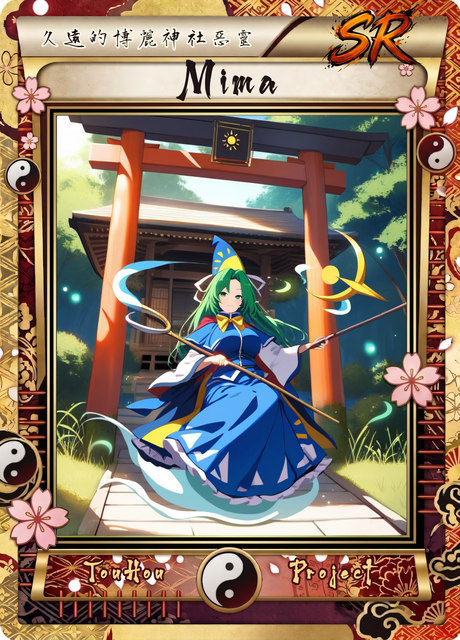
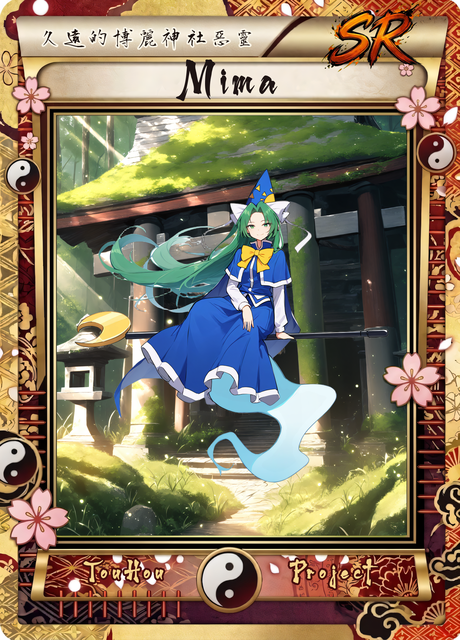
feat: 0.30.016 魅魔 SR / SSR / UR 重生卡面，twilight 彈幕

diff --git a/tools/card_art/layered/hd_card.py b/tools/card_art/layered/hd_card.py
@@ -755,7 +755,208 @@ LAYERS = {
         "density": 0.72,
         "glow": 0.55,
         "char_scale": 0.8,
-        "light": {"dark": 0.35, "eyes": [], "eye_color": (90, 255, 150), "eye": 1.3, "eye_size": 3},   # 綠瞳發光；eyes 座標等人物定案後量
+        "light": {"dark": 0.35, "glow_red": 0,   # glow_red 0：紅色領結會被當成翅膀紋路發光
+                  "eyes": [(515, 528), (478, 566)], "eye_color": (90, 255, 150), "eye": 1.3, "eye_size": 3,   # 綠瞳發光 (B2C2 的 10_char 量的)
+                  # 使用者 (2026-11-12)：杖頭月牙、旁邊的紫色魔焰、眼睛都要發亮
+                  "emissive": [
+                      {"hue": (0.70, 0.86), "sat": (0.35, 1.0), "val": (0.25,), "color": (190, 120, 255), "strength": 0.8, "body": 0.45, "keep_color": True},   # 紫色魔焰
+                      {"hue": (0.86, 1.0), "sat": (0.35, 1.0), "val": (0.45,), "color": (255, 130, 180), "strength": 1.0, "body": 0.6, "keep_color": True,    # 杖頭粉紅月牙
+                       "exclude": [[(450, 530), (610, 530), (610, 670), (450, 670)], [(930, 610), (1210, 610), (1210, 810), (930, 810)]]},   # 扣掉領結、右邊紅緞帶
+                  ]},
+    },
+    ("genji", "N"): {
+        # N「飛天神龜」(沿用舊 SCENES)：老龜悠哉地飛過湖面 (蘆葦、倒影、藍天白雲)；眼睛半閉、表情平靜
+        # 非人角色：人物層只畫烏龜 (no humans, animal focus)，湖面 / 水花全部放背景，不然去背會一起被切掉或留下奇怪的水塊
+        # hd_card 只吃 EXTRA_NEGATIVE["genji"]，舊的 ("genji", "N") 負面提示 (不要人) 要寫進 char_negative
+        "bg": ("no humans, scenery, calm lake, lake surface, reeds, water reflection, lily pads, distant green hills, "
+               "blue sky, white clouds, daylight, soft lighting, peaceful, highly detailed"),
+        "bg_negative": "1girl, person, human, character, face, animal, turtle, text, watermark, lowres, worst quality, low quality, blurry, frame, border, night, dark",
+        "base": ("no humans, animal focus, genjii (touhou), touhou, minogame, tortoise, old tortoise, land tortoise, green shell, olive brown skin, "
+                 "four legs, clawed feet, long white beard, bushy white eyebrows, half-closed eyes, sleepy eyes, "
+                 "long fluffy white tail, flowing white hair-like tail, wise, flying tortoise"),
+        "char": ("flying, floating in the air, legs relaxed, calm expression, eyes half closed, peaceful, beard flowing in the wind, "
+                 "side view, from side, full body"),
+        "char_negative": ("1girl, human, humanization, anthropomorphic, girl, rider, person riding, "
+                          "water, lake, splash, reeds, wings, feathers, sea turtle, flippers"),
+        "char_scale": 0.7,   # 烏龜是橫長的，畫窗直長；日常卡人物偏小，先抓 0.7，等去背圖出來再依實際寬度調
+    },
+    ("genji", "R"): {
+        # R「靈夢的御用坐騎」(沿用舊 SCENES)：載著 (舊作 PC-98 造型的) 靈夢在空中飛行，下方遠處是博麗神社、櫻花飛舞
+        # 雙人卡 (DUO)：靈夢 + 烏龜都放人物層，神社 / 櫻花 / 天空放背景；手上的符札會留著，飄的花瓣放背景
+        # 注意：共用的 CHAR_COMPOSITION 有 "solo"，可能只畫出其中一個 (或烏龜被縮成小配件)，挑圖時要檢查兩個都在
+        # 2026-11-12 使用者：第一輪背景 (B2 仰拍鳥居) 跟「在天上飛」的人物不搭 ➔ 改成高空俯瞰，神社只在遠遠的下方
+        "bg": ("no humans, scenery, aerial view, high altitude, open sky, white clouds around, wind, "
+               "looking down at gensokyo far below, tiny hakurei shrine and red torii far below, forest, mountains, lake, "
+               "pink cherry blossom trees far below, few falling petals, blue sky, daylight, cheerful, bright, highly detailed"),
+        "bg_negative": ("1girl, person, human, character, face, animal, turtle, text, watermark, lowres, worst quality, low quality, blurry, frame, border, night, dark, "
+                        "from below, low angle, close-up building, large building, shrine in foreground, torii in foreground"),
+        "base": ("1girl, hakurei reimu, touhou, touhou (pc-98), brown hair, black hair, brown eyes, hair tubes, red bow, "
+                 "red and white miko outfit, detached sleeves, red skirt, "
+                 "riding on a giant old tortoise, genjii (touhou), minogame, tortoise, green shell, olive brown skin, "
+                 "long white beard, bushy white eyebrows, long fluffy white tail"),
+        "char": ("sitting on the tortoise's shell, riding, flying through the sky, holding ofuda, cheerful smile, looking at viewer, "
+                 "hair flowing, sleeves fluttering, wind, tortoise with half-closed eyes, calm, from side, full body"),
+        "char_negative": ("humanization, anthropomorphic, turtle girl, multiple girls, white hair, grey hair, silver hair, "
+                          "animal ears, tail on girl, beard on girl, broom, wings, sea turtle, flippers, cherry blossoms, petals"),
+        "char_scale": 0.8,   # 靈夢 + 烏龜比單隻大，先 0.8；腳要留在龜殼上，太大會被畫窗切掉
+    },
+    ("genji", "SR"): {
+        # SR「萬年修行的靈龜」(沿用舊 SCENES)：仙山雲海上的神龜，龜殼上古老的符文發著金光、靈氣環繞
+        # 去背會把身邊的金色氣焰一起去掉 ➔ 光芒、光柱、金色光點都放背景，人物層只留龜殼上的發光符文 (是身體的一部分，去背會保留)
+        # N～SSR 沒有彈幕 / 魔法陣，舊 SCENES 也沒有，維持
+        "bg": ("no humans, scenery, sea of clouds, chinese mountains, towering karst peaks, waterfall, pine trees on cliffs, "
+               "golden light rays, divine light, glowing golden particles, sparkles, mist, mystical, sacred, majestic, "
+               "daylight, highly detailed, intricate details"),
+        "bg_negative": "1girl, person, human, character, face, animal, turtle, text, watermark, lowres, worst quality, low quality, blurry, frame, border, night, dark, magic circle",
+        "base": ("no humans, animal focus, genjii (touhou), touhou, minogame, tortoise, ancient divine tortoise, old tortoise, land tortoise, green shell, olive brown skin, "
+                 "four legs, clawed feet, long white beard, bushy white eyebrows, half-closed eyes, "
+                 "long fluffy white tail, flowing white hair-like tail, wise, flying tortoise"),
+        # 2026-11-12 第一輪 C1～C4 都畫出整圈金光 / 雲 / 好幾隻烏龜 (去背會切掉) ➔ 拿掉發光、飄動、仰角，改成單隻烏龜安穩站著的側面全身
+        "char": ("solo, single tortoise, standing calmly, side view, three-quarter view, ancient patterns carved on shell, "
+                 "dignified, wise expression, gentle smile, simple background, white background, full body"),
+        "char_negative": ("1girl, human, humanization, anthropomorphic, girl, rider, multiple tortoises, "
+                          "aura, glow, glowing, golden light, energy, smoke, clouds, swirl, runes, symbols, light particles, "
+                          "wings, feathers, sea turtle, flippers, dragon, waterfall, magic circle, danmaku"),
+        "char_scale": 0.75,
+    },
+    ("rika", "N"): {
+        # N「戰車技師」(沿用舊 SCENES)：在草地上修理自製的小戰車 (野花、藍天白雲、白天柔光)；拿扳手跪在戰車旁、臉頰沾油污、開朗笑
+        # 外觀照萌娘百科 (封魔錄 1 面)：棕色長髮綁兩條麻花辮、棕瞳、白襯衫 + 紫色領結；舊 base 的護目鏡 / 吊帶工作褲不是原作，拿掉
+        # 戰車要跟人物一起留在去背圖裡，所以戰車寫在 char (人物層)，草地、天空寫在 bg
+        "bg": ("no humans, scenery, grassy field, meadow, wildflowers, blue sky, white clouds, distant hills, "
+               "daylight, soft lighting, peaceful, highly detailed"),
+        "bg_negative": "1girl, person, human, character, face, tank, vehicle, military, text, watermark, lowres, worst quality, low quality, blurry, frame, border, night, dark",
+        "base": ("1girl, rika (touhou), touhou, touhou (pc-98), brown hair, long hair, twin braids, brown eyes, "
+                 "white shirt, collared shirt, purple bowtie, bowtie"),
+        "char": ("kneeling next to a small cute tank, repairing tank, holding wrench, oil stain on cheek, cheerful smile, looking at viewer, "
+                 "small handmade tank, flower decorations on the tank, toolbox, gears, bolts, full body"),
+        "char_negative": "military uniform, soldier, gun, rifle, mecha, robot girl, goggles, overalls, short hair, helmet",
+        "char_scale": 0.55,   # 日常場景人物小一點融入背景 (紅美鈴 R 0.49 / SR 0.56 的經驗)；戰車也要放得下
+    },
+    ("rika", "R"): {
+        # R「邪惡工程師」(沿用舊 SCENES)：坐在長滿花的戰車「Flower～戰車」頂上指揮、得意的壞笑、風吹花瓣、草原藍天
+        # N~SSR 沒有彈幕：舊 SCENES 的 tank cannon firing / danmaku / glowing bullets 拿掉，只留砲口一點硝煙
+        # 萌娘百科：Flower～戰車有加強裝甲 + 藤蔓偽裝，所以戰車寫 vines / flowers；戰車在 char 層 (去背才留得住)
+        "bg": ("no humans, scenery, meadow, flower field, rolling hills, blue sky, white clouds, sunlight, wind, flower petals flying, "
+               "highly detailed"),
+        "bg_negative": "1girl, person, human, character, face, tank, vehicle, military, text, watermark, lowres, worst quality, low quality, blurry, frame, border, night, dark",
+        "base": ("1girl, rika (touhou), touhou, touhou (pc-98), brown hair, long hair, twin braids, brown eyes, "
+                 "white shirt, collared shirt, purple bowtie, bowtie"),
+        "char": ("sitting on top of a tank, riding tank, flower tank, tank covered in flowers and vines, armored tank, cannon, smoke from cannon, "
+                 "pointing forward, mischievous grin, smug, looking at viewer, hair blowing in wind, petals, dynamic angle, full body"),
+        "char_negative": ("military uniform, soldier, gun, rifle, mecha, robot girl, goggles, overalls, short hair, helmet, "
+                          "danmaku, bullets, explosion, fire, magic circle"),
+        "char_scale": 0.65,   # 戰車比人大，人物 + 戰車整組要放得進畫窗
+    },
+    ("rika", "SR"): {
+        # SR「花樣戰車大師」(沿用舊 SCENES)：邪眼「Evil Eye Σ」— 飛行戰車；站在邪眼上張開雙手得意大笑，天空雲海、光線
+        # 萌娘百科的邪眼Σ造型：一顆大眼睛、紅色眼珠帶血絲、兩隻紫色蝙蝠翅膀、天使光環、兩根粗觸手、下面青色的東西 (可能是葉子)、眼皮下有紅色 Σ 標誌
+        # N~SSR 沒有彈幕：舊 SCENES 的 laser beams / flower-shaped danmaku 拿掉；SR 也不放施法光效，只留邪眼本身
+        # 邪眼要跟人物一起留在去背圖，寫在 char；背景只有天空
+        "bg": ("no humans, scenery, sky, above the clouds, sea of clouds, blue sky, dramatic clouds, sunlight, light rays, wind, "
+               "highly detailed, intricate details"),
+        "bg_negative": "1girl, person, human, character, face, eye, eyeball, monster, tank, vehicle, text, watermark, lowres, worst quality, low quality, blurry, frame, border, night",
+        "base": ("1girl, rika (touhou), touhou, touhou (pc-98), brown hair, long hair, twin braids, brown eyes, "
+                 "white shirt, collared shirt, purple bowtie, bowtie"),
+        "char": ("standing on top of a giant floating eyeball, evil eye sigma, huge eyeball, red iris, bloodshot eye, "
+                 "purple bat wings on the eyeball, halo above the eyeball, two thick tentacles, green leaves under the eyeball, red sigma symbol, "
+                 "arms spread, confident laugh, open mouth, looking at viewer, hair blowing in wind, dynamic angle, full body"),
+        "char_negative": ("military uniform, soldier, gun, rifle, mecha, robot girl, goggles, overalls, short hair, helmet, "
+                          "wings on girl, halo on girl, laser, danmaku, bullets, magic circle, gore, blood"),
+        "char_scale": 0.75,   # 邪眼很大，人物在上面會變小；邪眼被切到時用 outpaint 補邊
+    },
+    ("chiyuri", "N"): {
+        # N「教授助手」(沿用舊 SCENES)：研究室裡抱著一疊書和文件跑來跑去，紙張飛起來，開朗地笑
+        # 背景 = 研究室 (書架、寫滿算式的黑板、燒瓶、大窗戶、陽光)；書與紙張留在人物層 (抱在手上，去背會一起留下)
+        # 外觀照萌娘百科：金髮金瞳、偏左側的雙馬尾捲髮、藍白水手服 (胸前黃色結)、露臍、短褲、白色海軍帽 (船錨徽章、後面兩條緞帶)
+        "bg": ("no humans, scenery, indoors, laboratory, study room, tall bookshelves, many books, chalkboard with equations, "
+               "flasks, test tubes, beakers on desk, scattered papers, large window, sunlight, light rays, daylight, "
+               "warm soft lighting, cozy, highly detailed"),
+        "bg_negative": "1girl, person, human, character, face, text, watermark, lowres, worst quality, low quality, blurry, frame, border, night, dark",
+        "base": ("1girl, kitashirakawa chiyuri, touhou, touhou (pc-98), blonde hair, twintails, side twintails, curly hair, yellow eyes, red lips, "
+                 "white sailor hat, anchor emblem, hat ribbon, sailor collar, blue sailor collar, white sailor shirt, yellow bow, "
+                 "midriff, navel, blue shorts, short shorts"),
+        "char": ("carrying a stack of books, holding papers, papers flying, running, cheerful smile, open mouth, "
+                 "looking at viewer, twintails swaying, dynamic pose, full body"),
+        "char_negative": "blue eyes, short hair, long straight hair, skirt, pleated skirt, dress, school uniform, marisa, kirisame marisa, witch hat, danmaku, magic circle",
+        "char_scale": 0.6,   # 日常場景人物小一點、融入背景 (紅美鈴 R 0.49 / SR 0.56 的經驗)
+    },
+    ("chiyuri", "R"): {
+        # R「水手服科學家」(沿用舊 SCENES)：在船的甲板上做實驗，拿著發光燒瓶、得意地笑 + 眨眼
+        # 背景 = 甲板 (欄杆、繩索、海、海鷗、藍天白雲)；燒瓶 / 試管在人物手上 (去背會留下)
+        "bg": ("no humans, scenery, ship deck, wooden deck, railing, ropes, mast, ocean, sea, horizon, seagulls, "
+               "blue sky, white clouds, sunlight, wind, bright, summer, highly detailed"),
+        "bg_negative": "1girl, person, human, character, face, text, watermark, lowres, worst quality, low quality, blurry, frame, border, night, dark, storm",
+        "base": ("1girl, kitashirakawa chiyuri, touhou, touhou (pc-98), blonde hair, twintails, side twintails, curly hair, yellow eyes, red lips, "
+                 "white sailor hat, anchor emblem, hat ribbon, sailor collar, blue sailor collar, white sailor shirt, yellow bow, "
+                 "midriff, navel, blue shorts, short shorts"),
+        "char": ("holding glowing flask, holding test tube, science experiment, colorful bubbling liquid, sparkles, "
+                 "smug smile, wink, one eye closed, looking at viewer, hat ribbons fluttering, wind, standing, dynamic angle, full body"),
+        "char_negative": "blue eyes, short hair, long straight hair, skirt, pleated skirt, dress, school uniform, marisa, kirisame marisa, witch hat, danmaku, magic circle",
+        "char_scale": 0.55,
+    },
+    ("chiyuri", "SR"): {
+        # SR「時空船之助手」(沿用舊 SCENES)：駕駛可能性空間移動船穿越時空 (光環、曲速隧道、星雲)
+        # 去背只留人物：船舵 / 控制台放人物層很可能被切掉或切一半 ➔ 船艙 (發光控制台、全息螢幕、窗外的時空隧道) 全放背景，
+        # 人物只做「站在船艙裡、一手往前指 / 下指令」的姿勢，SR 不放彈幕
+        "bg": ("no humans, scenery, inside a futuristic spaceship bridge, cockpit, glowing control panels, holographic screens, "
+               "large front window, flying through a space-time portal, glowing rings, warp tunnel, stars, nebula, light streaks, "
+               "blue and gold light, sci-fi, epic, highly detailed, intricate details"),
+        "bg_negative": "1girl, person, human, character, face, text, watermark, lowres, worst quality, low quality, blurry, frame, border, daytime, blue sky",
+        "base": ("1girl, kitashirakawa chiyuri, touhou, touhou (pc-98), blonde hair, twintails, side twintails, curly hair, yellow eyes, red lips, "
+                 "white sailor hat, anchor emblem, hat ribbon, sailor collar, blue sailor collar, white sailor shirt, yellow bow, "
+                 "midriff, navel, blue shorts, short shorts"),
+        "char": ("standing, pointing forward, giving orders, other hand on hip, determined smile, confident, looking at viewer, "
+                 "hat ribbons flowing, twintails flowing, wind, dynamic angle, full body"),
+        "char_negative": "blue eyes, short hair, long straight hair, skirt, pleated skirt, dress, school uniform, marisa, kirisame marisa, witch hat, ship's wheel, steering wheel, chair, sitting, danmaku, magic circle",
+        "char_scale": 0.6,
+    },
+    ("yumemi", "R"): {
+        # R「比較物理學教授」(沿用舊 SCENES)：大學階梯教室，黑板寫滿物理公式、桌椅、書本、大窗戶白天光線；
+        # 人物拿教鞭指向旁邊 (黑板在背景)、一手插腰、自信得意地笑。平常服裝：不披戰鬥用披風 (萌娘百科：披風是戰鬥時才披)
+        # 日常場景人物縮小融入背景 (參考紅美鈴 R 0.49)
+        "bg": ("no humans, scenery, university lecture hall, large chalkboard covered with physics equations, chalk diagrams, "
+               "rows of wooden desks, stacks of books, large window, daylight, sunlight, soft lighting, academic, highly detailed"),
+        "bg_negative": "1girl, person, human, character, face, text, watermark, lowres, worst quality, low quality, blurry, frame, border, night, dark",
+        "base": ("1girl, okazaki yumemi, touhou, touhou (pc-98), dark red hair, long hair, braid, single braid, hair behind back, red eyes, "
+                 "white shirt, puffy sleeves, red vest, breast pocket, red long skirt, white frilled hem, red bowtie, red shoes, white socks"),
+        "char": ("standing, holding pointer stick, pointing to the side, lecturing, hand on hip, confident smile, smug, "
+                 "looking at viewer, full body"),
+        "char_negative": "cape, cloak, blonde hair, yellow eyes, black vest, black dress, glasses, lab coat, chalkboard, desk, chair, sitting",
+        "char_scale": 0.5,
+    },
+    ("yumemi", "SR"): {
+        # SR「夢幻的魔術教授」(沿用舊 SCENES)：可能性空間移動船的艙內實驗室，科幻機械、全像螢幕、空中浮著發光的數學公式；
+        # 人物披上戰鬥披風，手上的科學儀器發光、用科學施展「人造魔法」，興奮地咧嘴笑。
+        # N~SSR 沒有彈幕：舊 SCENES 的 magic circle made of formulas 拿掉；浮空公式 / 全像螢幕放背景 (去背會去掉人物身邊的光)
+        "bg": ("no humans, scenery, inside a futuristic spaceship laboratory, sci-fi machinery, glowing scientific instruments, "
+               "holographic screens, glowing equations floating in the air, mathematical symbols, control panels, red and white interior, "
+               "cool blue lighting, sparkles, highly detailed, intricate details"),
+        "bg_negative": "1girl, person, human, character, face, text, watermark, lowres, worst quality, low quality, blurry, frame, border, magic circle",
+        "base": ("1girl, okazaki yumemi, touhou, touhou (pc-98), dark red hair, long hair, braid, single braid, red eyes, "
+                 "white shirt, puffy sleeves, red vest, red long skirt, white frilled hem, red bowtie, red shoes, white socks, "
+                 "red cape, white collar, white trim, cape lining"),
+        "char": ("standing, holding a glowing scientific device, glowing flask, one hand raised, excited grin, open mouth, "
+                 "cape fluttering, dynamic pose, dynamic angle, looking at viewer, full body"),
+        "char_negative": "blonde hair, yellow eyes, black vest, black dress, glasses, lab coat, magic circle, danmaku, sitting",
+        "char_scale": 0.56,
+    },
+    ("yumemi", "SSR"): {
+        # SSR「時空空間之主宰」(沿用舊 SCENES)：可能性空間移動船上方，時空裂縫、碎裂的天空、漩渦狀次元門、星星；
+        # 身後巨大的發光十字架光束 (符卡「十字架光束兵器」) 放背景；人物張開雙臂、狂笑、紅眼發光，披風與長髮翻飛。
+        # 船畫在背景下方 (人物腳下)，人物圖不畫船 (去背只留人物，船身不會被保留)
+        # N~SSR 沒有彈幕；十字光束是背景裡的一道大光，不是彈幕 (SSR 的閃光 build_cards 會自動加)
+        "bg": ("no humans, scenery, top deck of a giant futuristic flying ship at the bottom, space-time rift, cracked sky, "
+               "swirling dimensional portal, stars, giant glowing cross-shaped laser beam in the center, massive energy cross, "
+               "light rays, bloom, epic, majestic, dramatic, highly detailed, intricate details"),
+        "bg_negative": "1girl, person, human, character, face, text, watermark, lowres, worst quality, low quality, blurry, frame, border, daytime, blue sky, danmaku",
+        "base": ("1girl, okazaki yumemi, touhou, touhou (pc-98), dark red hair, long hair, braid, single braid, red eyes, "
+                 "white shirt, puffy sleeves, red vest, red long skirt, white frilled hem, red bowtie, red shoes, white socks, "
+                 "red cape, white collar, white trim, cape lining"),
+        "char": ("standing, arms spread, arms outstretched, maniacal laugh, open mouth, glowing eyes, red eyes, "
+                 "cape billowing, hair flowing, wind, powerful, dynamic pose, dynamic angle, from below, looking at viewer, full body"),
+        "char_negative": "blonde hair, yellow eyes, black vest, black dress, glasses, lab coat, magic circle, danmaku, ship, vehicle, cross, sitting",
+        "char_scale": 0.85,
     },
     # 夢子 R / SR / SSR (TH05 舊卡重生，2026-11-12 桌機)：外觀沿用 make_workflow.BASE (舊作 PC-98：金色波浪長髮、黃眼、女僕頭飾、紅色女僕裝 + 白圍裙)；
     # 神綺的女僕長，武器是劍 (不是飛刀)；不要畫成咲夜 (EXTRA_NEGATIVE 已排除銀髮藍裙)

diff --git a/tools/card_art/layered/danmaku.py b/tools/card_art/layered/danmaku.py
@@ -148,6 +148,26 @@ def draw_danmaku(size, seed=1, style="rainbow", scale=None, density=1.0, origins
         cd.polygon(pts([(-L * 0.35, L * 0.16), (-L * 0.42, L * 0.16), (-L * 0.42, -L * 0.16), (-L * 0.35, -L * 0.16)]), fill=(70, 80, 110, 255))
         cd.polygon(pts([(-L * 0.42, L * 0.07), (-L * 0.75, L * 0.07), (-L * 0.75, -L * 0.07), (-L * 0.42, -L * 0.07)]), fill=(60, 50, 70, 255))
 
+    TWILIGHT = [(110, 90, 255), (150, 110, 255), (90, 140, 255), (180, 130, 255)]   # 魅魔：藍紫色月牙
+    MIMA_GREEN = (150, 255, 190)
+    STARLIGHT = [(255, 255, 255), (255, 250, 200), (240, 240, 255)]   # 魅魔：白、淡黃星光
+
+    def crescent(x, y, r, ang, color):
+        """月牙刃彈：外圓扣掉偏移的內圓，開口朝行進方向的反方向"""
+        if keep.random() > density:
+            return
+        ca, sa = math.cos(ang), math.sin(ang)
+        pts = []
+        for k in range(21):
+            t = -math.pi * 0.9 + math.pi * 1.8 * k / 20
+            pts.append((r * math.cos(t), r * math.sin(t)))
+        for k in range(21):
+            t = math.pi * 0.78 - math.pi * 1.56 * k / 20
+            pts.append((-r * 0.45 + r * 0.95 * math.cos(t) * 0.9, r * 0.95 * math.sin(t) * 0.9))
+        poly = [(x + px * ca - py * sa, y + px * sa + py * ca) for px, py in pts]
+        gd.polygon([(x + (px - x) * 1.6, y + (py - y) * 1.6) for px, py in poly], fill=color)
+        cd.polygon(poly, fill=color + (255,), outline=(255, 255, 255, 255), width=max(1, int(s * 1.2)))
+
     def shard(x, y, L, ang, color):
         """菱形水晶彈：細長菱形，沿行進方向"""
         if keep.random() > density:
@@ -186,6 +206,11 @@ def draw_danmaku(size, seed=1, style="rainbow", scale=None, density=1.0, origins
                         orb(x, y, r * 1.2, STARBOW[k % 7] if k % 3 == 0 else (230, 25, 45))
                     elif style == "elements":   # 帕秋莉：一圈一種元素色的大玉
                         orb(x, y, r * 1.4, ELEMENTS[(ring + int(base_h * 7)) % 7])
+                    elif style == "twilight":   # 魅魔：藍紫月牙刃環，每五顆夾一顆淡綠大玉
+                        if k % 5 == 0:
+                            orb(x, y, r * 1.7, MIMA_GREEN)
+                        else:
+                            crescent(x, y, r * 1.8, a, TWILIGHT[ring % 4])
                     else:
                         orb(x, y, r, hue(base_h + k / n))
     # 螺旋米粒彈
@@ -208,6 +233,8 @@ def draw_danmaku(size, seed=1, style="rainbow", scale=None, density=1.0, origins
                     rice(x, y, a + 0.35, 17 * s, STARBOW[arm])
                 elif style == "elements":   # 帕秋莉：七條手臂 = 七曜
                     rice(x, y, a + 0.35, 18 * s, ELEMENTS[arm])
+                elif style == "twilight":   # 魅魔：藍紫米粒彈
+                    rice(x, y, a + 0.35, 18 * s, TWILIGHT[arm % 4])
                 else:
                     rice(x, y, a + 0.35, 17 * s, hue(arm / 7 + t / 90, 0.7))
     if style == "seal":
@@ -229,7 +256,7 @@ def draw_danmaku(size, seed=1, style="rainbow", scale=None, density=1.0, origins
             knife(rnd.uniform(0, W), rnd.uniform(0, H), math.pi * 0.62 + rnd.uniform(-0.15, 0.15), rnd.uniform(26, 40) * s, rnd.choice(KNIFE))
     red = style == "scarlet"   # 蕾米莉亞：散落的彈也都是紅色系
     blue = style == "knives"   # 咲夜：散落的彈是藍白色系
-    palette = SCARLET if red else ELEMENTS if style == "elements" else KNIFE if blue else None   # 帕秋莉：七曜色；咲夜：銀藍
+    palette = SCARLET if red else ELEMENTS if style == "elements" else KNIFE if blue else STARLIGHT if style == "twilight" else None   # 帕秋莉：七曜色；咲夜：銀藍；魅魔：白 / 淡黃星光
     for _ in range(260 if style == "stars" else 60 if blue else 110):
         star(rnd.uniform(0, W), rnd.uniform(0, H), rnd.uniform(9, 17) * s, rnd.random() * 6, rnd.choice(palette) if palette else hue(rnd.random(), 0.6))
     for _ in range(260):

diff --git a/Utils/version.py b/Utils/version.py
@@ -6,4 +6,4 @@
 
 每次 commit 都要更新這裡和 CHANGELOG.md。
 """
-VERSION = "0.30.015"
+VERSION = "0.30.016"

diff --git a/CHANGELOG.md b/CHANGELOG.md
@@ -13,6 +13,15 @@
 
 ---
 
+## 0.30.016 — 2026-11-12：魅魔 SR / SSR / UR 重生 (筆電)，新彈幕風格 twilight
+- **👻 魅魔**：SR「久遠的博麗神社惡靈」青苔廢神社前坐在月牙杖上飄 (B1 + C1)；SSR「祟高而冷酷的惡靈」鳥居上空持杖飛行、身邊藍色氣流 (B2 + C2)；UR「憑依博麗之陰影」夜空巨月前施法、紫色暗影 (B2 + C2)。下半身是幽靈尾巴，提示詞負面加權擋腳。
+- **🌙 `danmaku.py` 新風格 `twilight`**：同心環是藍紫月牙刃 (每五顆夾一顆淡綠大玉)、螺旋是藍紫米粒彈、散落白 / 淡黃星光。
+- **UR 局部發光** (使用者指定)：杖頭粉紅月牙、紫色魔焰、綠瞳都發光 (`light.emissive` 依色相選取，扣掉領結與緞帶)。
+- `hd_card.py` 也加了玄爺、里香、千百合、夢美的分層設定 (候選已生、使用者挑圖中，卡面還沒推)。
+- 問題：
+  - UR 第一次合成時紅色領結發光 ➔ `relight` 的「翅膀紅紋路」偵測把領結當成紋路，魅魔設 `glow_red: 0`。
+  - 改了 `light` 設定只重跑 `compose` 不會生效 ➔ 要先 `hd_card.py light <角色> <階級>` 重做 10b_char_lit 再 compose。
+
 ## 0.30.015 — 2026-11-12：夢子 R / SR / SSR、露易絲 N / R / SR 重生卡面 (桌機)，PhotoCraft 分層檔工具
 - **⚔ 夢子**：R「魔界的女長官」宮殿大廳提裙行禮 (B2 + C1)；SR「飛刀之魔界女僕」長廊雙手持劍 (B1 + C4)；SSR「神綺的終極刃舞」王座廳劍陣前持藍焰長劍 (B1 + C3)。外觀沿用舊作 PC-98 (金髮紅女僕裝)。
 - **🧳 露易絲**：N「魔界旅行者」城門前提行李箱 (B2 + C1)；R「觀光的魔界人」山谷坐在行李箱上看地圖 (B1 + C1)；SR「邊境流浪魔導士」兩界交界施法 (B1 + C1)。

diff --git a/docs/card-art.md b/docs/card-art.md
@@ -11,6 +11,7 @@
 - **合成完傳整張卡 (15_card 縮圖) 給使用者看；他問特效再傳 16_card.gif**。
 - **定案才推**：使用者說「定案推送」才 `build_cards.py <角色>` ➔ 更新 `Utils/version.py` (+1)、`CHANGELOG.md`、`TODO.md` 第 1 節、本文件 ➔ `python tests/run_all.py` ➔ `git pull --rebase` ➔ commit + push。試作圖不推。
 - **筆電 (16GB RAM) 生圖時不要同時去背 / 合成**：ComfyUI 生圖約佔 4GB、去背 (BiRefNet CPU) 再吃好幾 GB，2026-11-12 兩次同時跑都讓 ComfyUI 直接崩潰 (Fatal Python error: Aborted)。先讓佇列跑完或暫停，再合成；桌機 16GB VRAM / 記憶體較多沒遇到。
+- **改了 `light` (眼睛、emissive) 要先跑 `hd_card.py light <角色> <階級>`**，再 `compose`；只跑 compose 會沿用舊的 10b_char_lit。紅色小物 (領結) 會被翅膀紋路偵測當成紋路發光 ➔ 沒有翅膀的角色設 `glow_red: 0`。
 - **背景道具要跟人物互動時 (倚著樹、坐在椅子上)**：人物層白底去背會把樹、地面一起切掉 ➔ 把樹畫在背景，人物照常去背、用 `char_scale` / `offset` 放到樹根；或像咲夜 / 蕾米莉亞的椅子一樣讓道具留在人物層 (去背模型通常會保留緊貼人物的家具)。
 - **兩台分工**：一台負責一位角色的整套流程；每個階段 (候選完成、使用者選圖、合成完、推送) 都用 SendMessage 跟另一台互報一則短訊。
 

diff --git a/TODO.md b/TODO.md
@@ -24,7 +24,7 @@
 |---|---|---|---|
 | Main | 靈夢 reimu | SR / SSR / UR | ✅ 全部完成 (SR、SSR 2026-11-12 重生) |
 | Main | 魔理沙 marisa | SR / SSR / UR | ✅ 全部完成 (SR、SSR 2026-11-12 重生) |
-| TH01 | 魅魔 mima | SR / SSR / UR | 全部重生 (幽靈尾巴，模型常畫出腳) |
+| TH01 | 魅魔 mima | SR / SSR / UR | ✅ 全部完成 (2026-11-12 重生，UR 用 twilight 彈幕) |
 | TH02 | 玄爺 genji | N / R / SR | 全部重生 (陸龜、白鬍子) |
 | TH02 | 里香 rika | N / R / SR | 全部重生 |
 | TH03 | 千百合 chiyuri | N / R / SR | 全部重生 |
